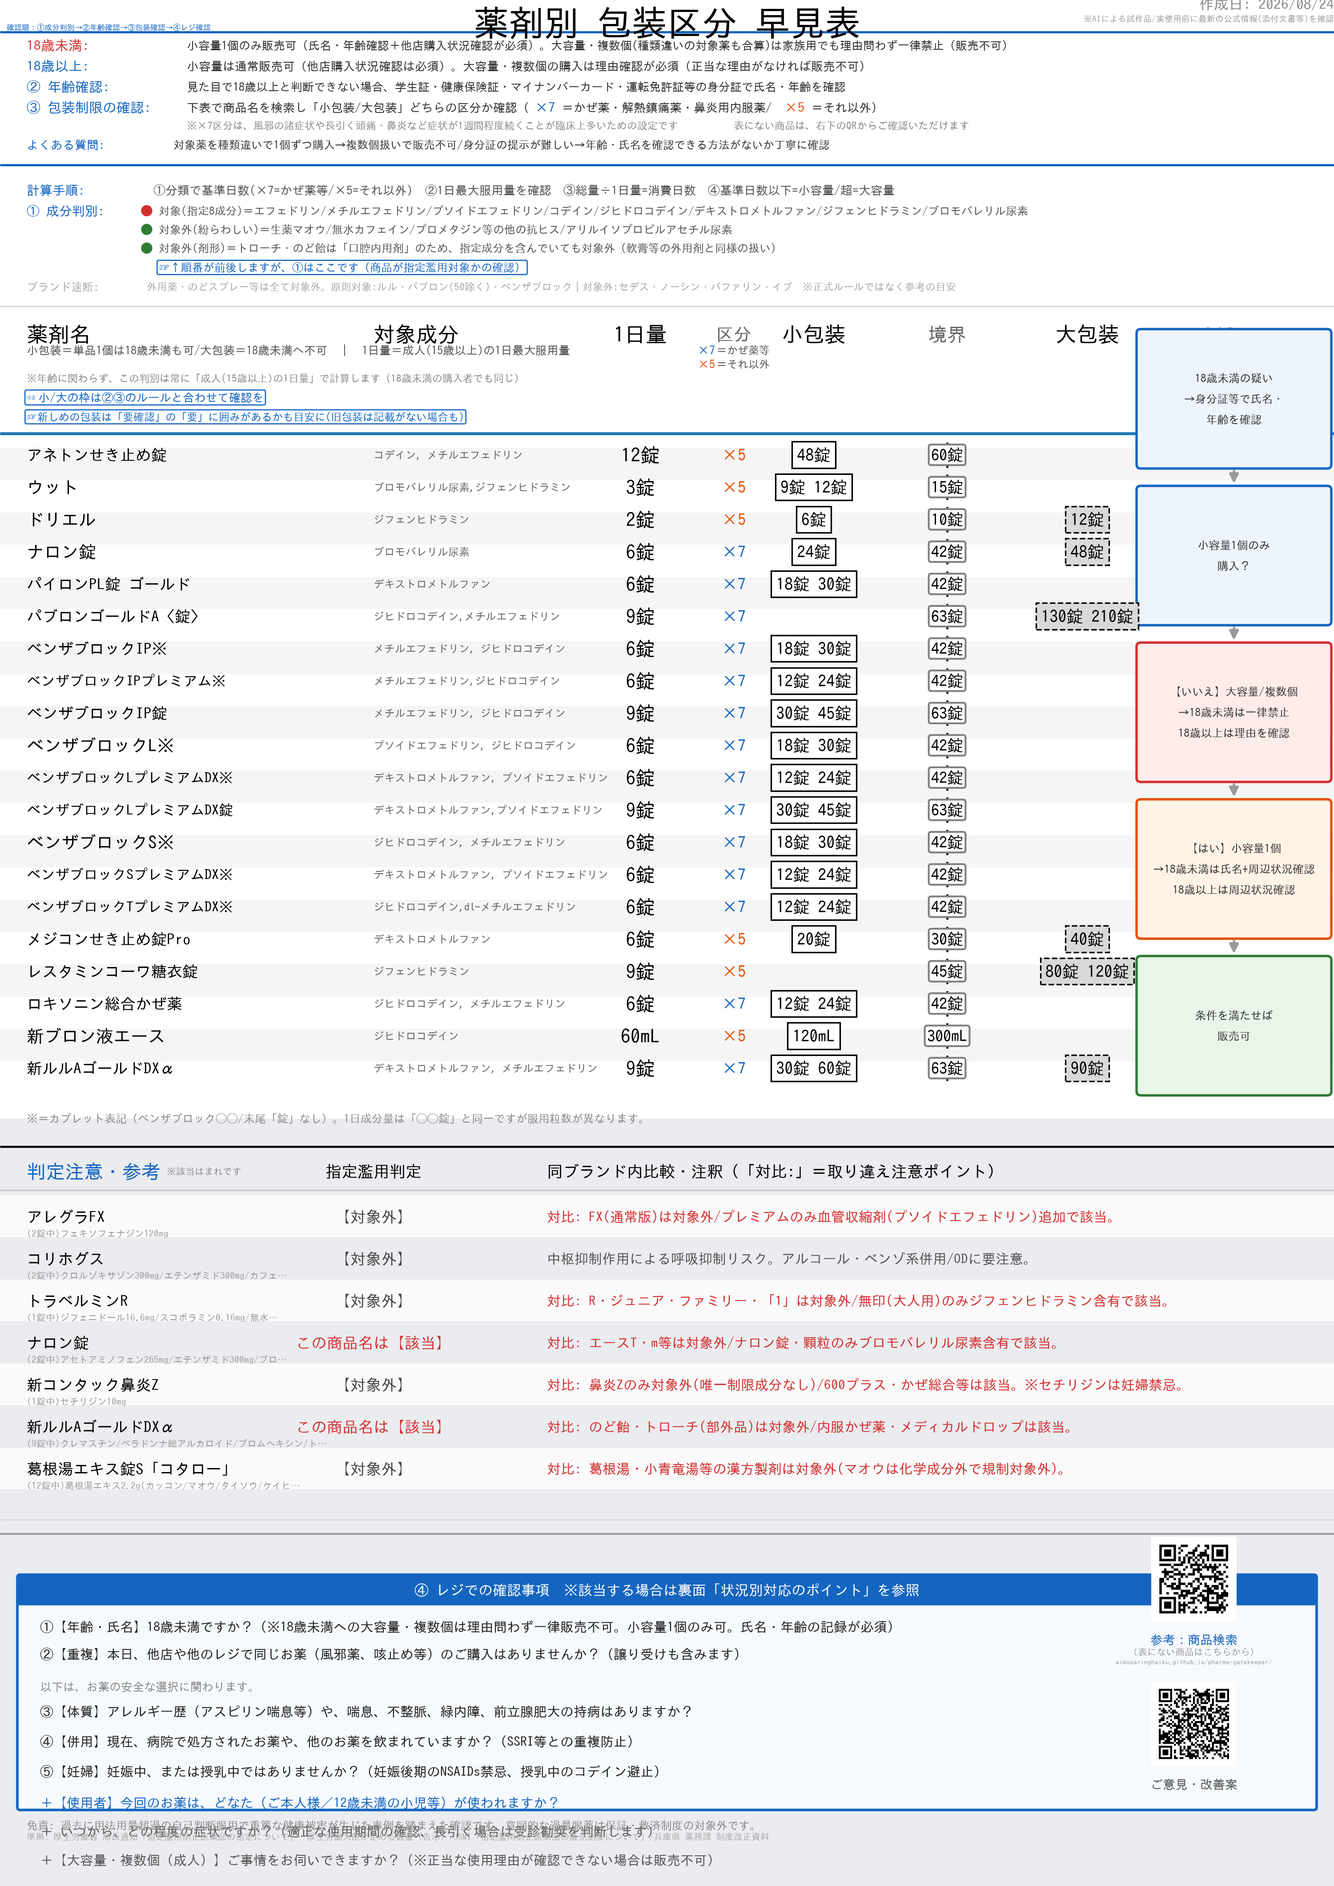
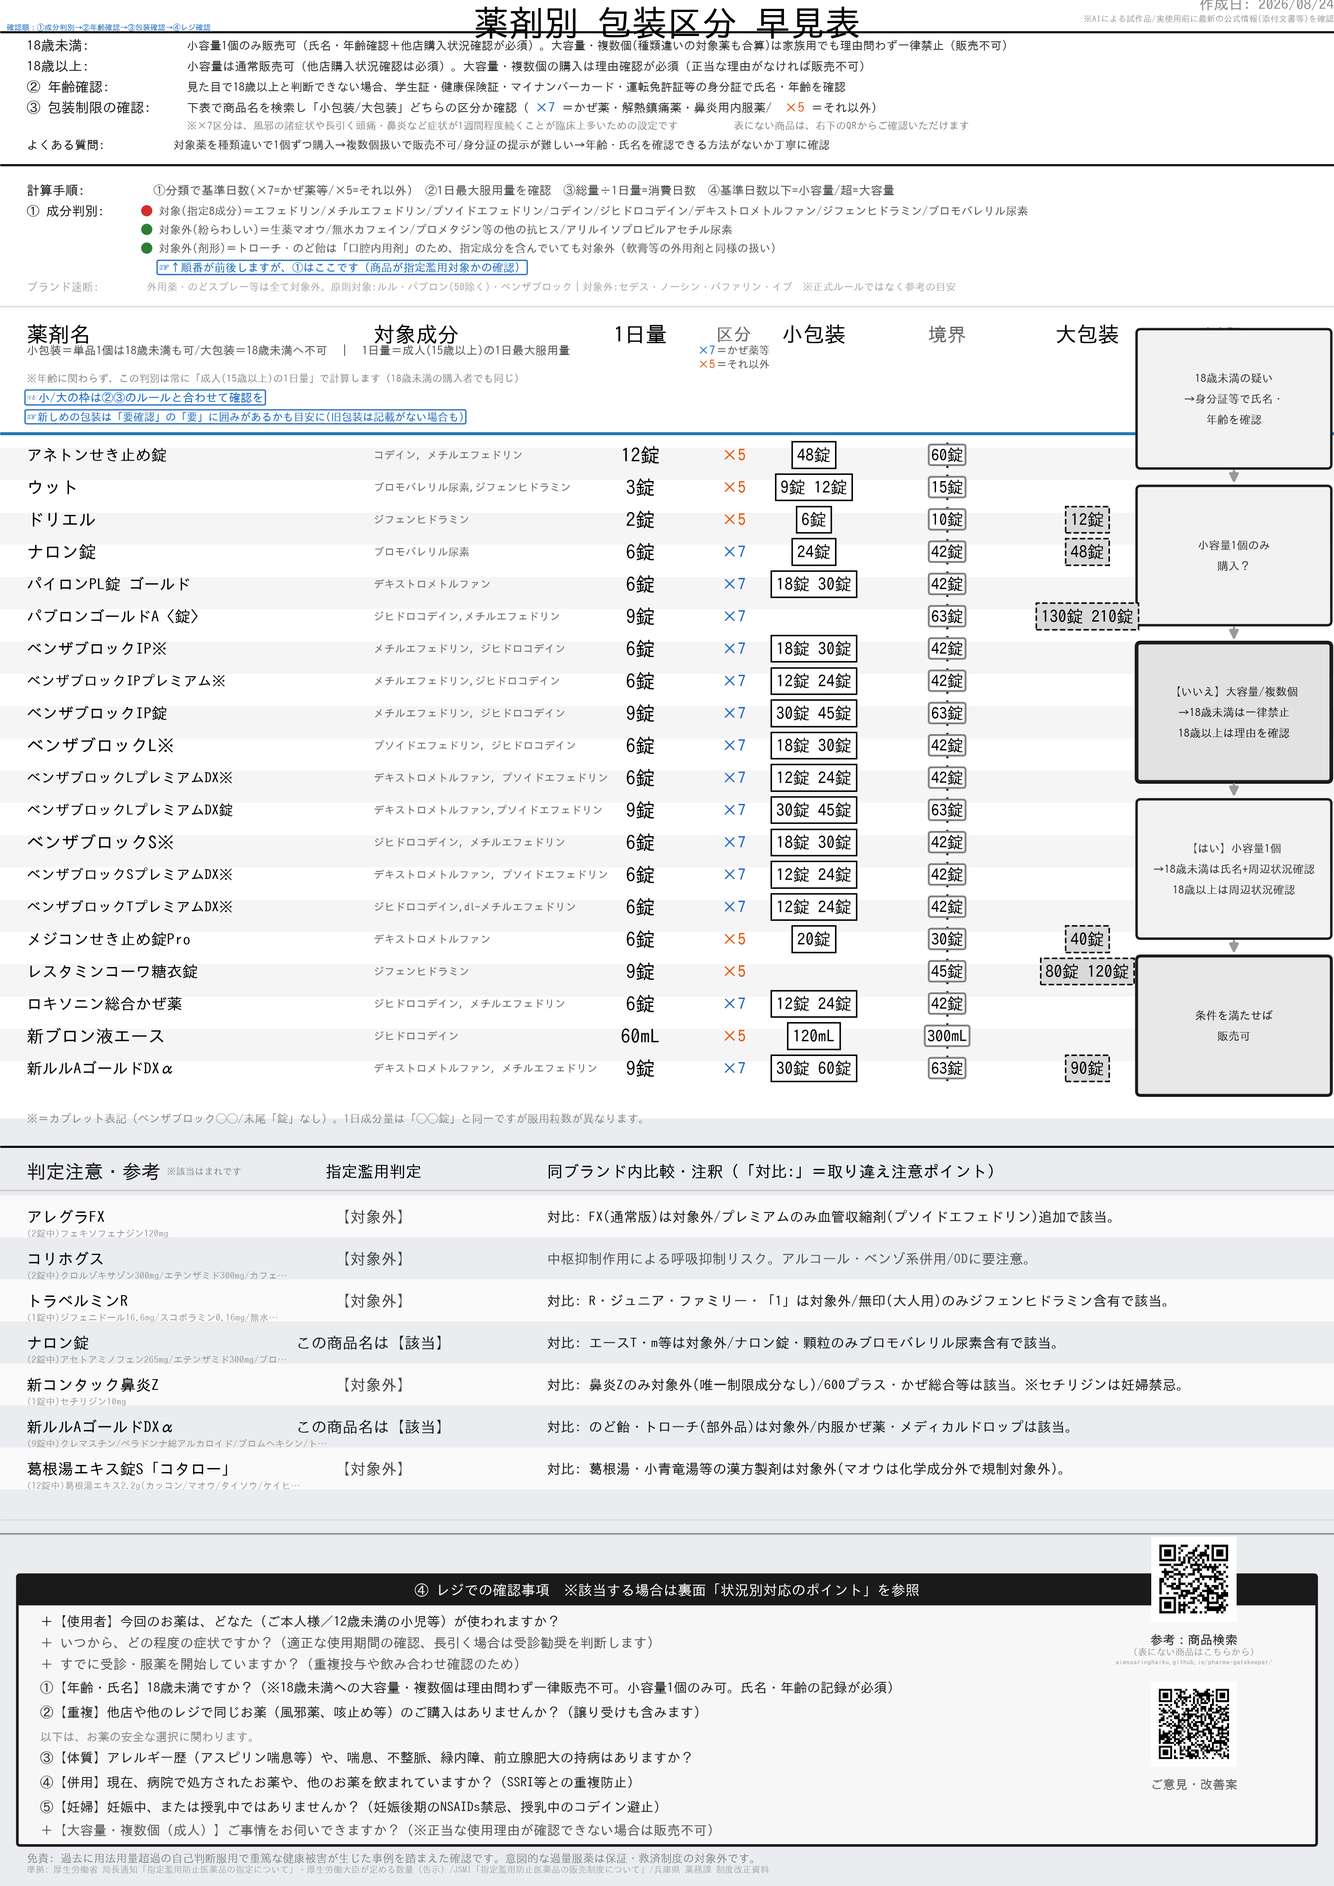
表面: 必須確認事項ボックスの下端はみ出しを修正、全体を白黒基調に配色変更
はみ出し修正:
- 必須確認事項ボックスの高さが固定の下端座標(y=5.9)を前提にしていたため、
  前段の追加でボックス位置が下がった分、後半の項目がボックス外にはみ出て
  下部の免責事項と重なっていた。ボックス高さを内容量ベースの固定値に変更

必須確認事項の並び替え・追加:
- 「どなたが使うか」「いつから・どの程度の症状か」を①より前に移動
- 新規質問「すでに受診・服薬を開始していますか」を追加
- ②【重複】から「本日、」を削除(本日か否かは重要度が低いため)

配色:
- 解釈層(☞注釈)、×7/×5、成分判別の対象/対象外マーカーの3種類のみ
  色(青・橙・赤/緑)を残し、それ以外の見出し・罫線・レジ確認フロー・
  判定注意参考表などは黒/グレーに統一
- レジ確認フローの「大容量/複数個→18歳未満は一律禁止」ボックスは、
  色の代わりに太い枠線+グレー塗り+太字で警告を表現(白黒印刷対応)

Claude-Session: https://claude.ai/code/session_01HtDFe8WnY993KR3Dojx73s

diff --git a/vpc_v12_front.py b/vpc_v12_front.py
@@ -26,6 +26,7 @@ BLUE = "#1565c0"
 GREEN = "#2e7d32"
 ORANGE = "#e65100"
 DARKRED = "#8e0000"
+INK = "#1a1a1a"  # 白黒印刷を基本とし、×7/×5・成分判別マーカー・解釈層(☞)以外の見出し等はこの色に統一
 
 
 def extract_amount_unit(package_str):
@@ -139,7 +140,7 @@ for product, group in reference_df.groupby("product", sort=True):
     kubuns = [str(x).strip() for x in group["kubun"] if str(x).strip()]
     kubun_val = kubuns[0] if kubuns else ""
     if kubun_val == "＊〇":
-        status_text, status_color = "この商品名は【該当】", "#d32f2f"
+        status_text, status_color = "この商品名は【該当】", INK
     elif kubun_val in ["＊対象外", "△"]:
         status_text, status_color = "【対象外】", "#444444"
     else:
@@ -191,24 +192,24 @@ ax.text(0.5, current_y - 0.35, "確認順：①成分判別→②年齢確認→
 
 # --- 使い方・販売可否（①を年齢規制＝この表の根幹に。ルール未経験者でもこの1枚で可否判断できるよう最上部に配置） ---
 current_y -= 1.55
-ax.hlines(current_y + 0.85, 0, LOGICAL_W, colors=BLUE, linewidth=1.2)
+ax.hlines(current_y + 0.85, 0, LOGICAL_W, colors=INK, linewidth=1.2)
 current_y -= 0.15
-ax.text(COL_NAME_X, current_y, "18歳未満:", fontsize=7.4, fontweight="bold", ha="left", va="center", color=RED)
+ax.text(COL_NAME_X, current_y, "18歳未満:", fontsize=7.4, fontweight="bold", ha="left", va="center", color=INK)
 ax.text(COL_NAME_X + 12.0, current_y,
         "小容量1個のみ販売可（氏名・年齢確認＋他店購入状況確認が必須）。大容量・複数個(種類違いの対象薬も合算)は家族用でも理由問わず一律禁止（販売不可）",
         fontsize=6.3, ha="left", va="center", color="#333333", fontweight="bold")
 current_y -= 1.55
-ax.text(COL_NAME_X, current_y, "18歳以上:", fontsize=7.4, fontweight="bold", ha="left", va="center", color=BLUE)
+ax.text(COL_NAME_X, current_y, "18歳以上:", fontsize=7.4, fontweight="bold", ha="left", va="center", color=INK)
 ax.text(COL_NAME_X + 12.0, current_y,
         "小容量は通常販売可（他店購入状況確認は必須）。大容量・複数個の購入は理由確認が必須（正当な理由がなければ販売不可）",
         fontsize=6.6, ha="left", va="center", color="#333333")
 current_y -= 1.55
-ax.text(COL_NAME_X, current_y, "② 年齢確認:", fontsize=7.4, fontweight="bold", ha="left", va="center", color=BLUE)
+ax.text(COL_NAME_X, current_y, "② 年齢確認:", fontsize=7.4, fontweight="bold", ha="left", va="center", color=INK)
 ax.text(COL_NAME_X + 12.0, current_y,
         "見た目で18歳以上と判断できない場合、学生証・健康保険証・マイナンバーカード・運転免許証等の身分証で氏名・年齢を確認",
         fontsize=6.3, ha="left", va="center", color="#333333")
 current_y -= 1.55
-ax.text(COL_NAME_X, current_y, "③ 包装制限の確認:", fontsize=7.4, fontweight="bold", ha="left", va="center", color=BLUE)
+ax.text(COL_NAME_X, current_y, "③ 包装制限の確認:", fontsize=7.4, fontweight="bold", ha="left", va="center", color=INK)
 ax.text(COL_NAME_X + 12.0, current_y, "下表で商品名を検索し「小包装/大包装」どちらの区分か確認（", fontsize=6.6, ha="left", va="center", color="#333333")
 ax.text(COL_NAME_X + 38.1, current_y, "×7", fontsize=7.2, fontweight="bold", ha="left", va="center", color=BLUE)
 ax.text(COL_NAME_X + 40.1, current_y, "＝かぜ薬・解熱鎮痛薬・鼻炎用内服薬/", fontsize=6.6, ha="left", va="center", color="#333333")
@@ -220,22 +221,22 @@ ax.text(COL_NAME_X + 12.0, current_y,
         fontsize=5.6, ha="left", va="center", color=LGRAY)
 ax.text(COL_NAME_X + 53.0, current_y, "表にない商品は、右下のQRからご確認いただけます", fontsize=5.6, ha="left", va="center", color="#888888")
 current_y -= 1.45
-ax.text(COL_NAME_X, current_y, "よくある質問:", fontsize=6.6, fontweight="bold", ha="left", va="center", color=BLUE)
+ax.text(COL_NAME_X, current_y, "よくある質問:", fontsize=6.6, fontweight="bold", ha="left", va="center", color=INK)
 ax.text(COL_NAME_X + 11.0, current_y,
         "対象薬を種類違いで1個ずつ購入→複数個扱いで販売不可/身分証の提示が難しい→年齢・氏名を確認できる方法がないか丁寧に確認",
         fontsize=6.0, ha="left", va="center", color="#333333")
 current_y -= 1.5
-ax.hlines(current_y, 0, LOGICAL_W, colors=BLUE, linewidth=1.2)
+ax.hlines(current_y, 0, LOGICAL_W, colors=INK, linewidth=1.2)
 current_y -= 0.35
 
 # --- 計算手順・成分判別・ブランド速断（実務でよく使う判別系を、本体テーブルの直前に集約） ---
 current_y -= 1.55
-ax.text(COL_NAME_X, current_y, "計算手順:", fontsize=7.07, fontweight="bold", ha="left", va="center", color=BLUE)
+ax.text(COL_NAME_X, current_y, "計算手順:", fontsize=7.07, fontweight="bold", ha="left", va="center", color=INK)
 ax.text(COL_NAME_X + 9.5, current_y,
         "①分類で基準日数(×7=かぜ薬等/×5=それ以外)　②1日最大服用量を確認　③総量÷1日量=消費日数　④基準日数以下=小容量/超=大容量",
         fontsize=6.4, ha="left", va="center", color=GRAY)
 current_y -= 1.55
-ax.text(COL_NAME_X, current_y, "① 成分判別:", fontsize=7.07, fontweight="bold", ha="left", va="center", color=BLUE)
+ax.text(COL_NAME_X, current_y, "① 成分判別:", fontsize=7.07, fontweight="bold", ha="left", va="center", color=INK)
 marker(ax, COL_NAME_X + 9.0, current_y, RED, "circle", 0.42)
 ax.text(COL_NAME_X + 9.9, current_y,
         "対象(指定8成分)＝エフェドリン/メチルエフェドリン/プソイドエフェドリン/コデイン/ジヒドロコデイン/デキストロメトルファン/ジフェンヒドラミン/ブロモバレリル尿素",
@@ -306,11 +307,11 @@ row_height = 2.42
 # --- レジ確認フロー（本体テーブル右の空きスペースに縦長ミニフローチャート） ---
 FLOW_HALF_W = 7.0
 flow_nodes = [
-    (["18歳未満の疑い", "→身分証等で氏名・", "年齢を確認"], BLUE, "#eef4fc"),
-    (["小容量1個のみ", "購入？"], BLUE, "#eef4fc"),
-    (["【いいえ】大容量/複数個", "→18歳未満は一律禁止", "18歳以上は理由を確認"], RED, "#fdecea"),
-    (["【はい】小容量1個", "→18歳未満は氏名+周辺状況確認", "18歳以上は周辺状況確認"], ORANGE, "#fff3e6"),
-    (["条件を満たせば", "販売可"], GREEN, "#eaf5ea"),
+    (["18歳未満の疑い", "→身分証等で氏名・", "年齢を確認"], INK, "#f2f2f2", 1.3),
+    (["小容量1個のみ", "購入？"], INK, "#f2f2f2", 1.3),
+    (["【いいえ】大容量/複数個", "→18歳未満は一律禁止", "18歳以上は理由を確認"], INK, "#e2e2e2", 2.0),
+    (["【はい】小容量1個", "→18歳未満は氏名+周辺状況確認", "18歳以上は周辺状況確認"], INK, "#f2f2f2", 1.3),
+    (["条件を満たせば", "販売可"], INK, "#e8e8e8", 1.6),
 ]
 flow_top = 111.5
 flow_bottom = 64.5
@@ -318,17 +319,19 @@ n = len(flow_nodes)
 flow_gap = (flow_top - flow_bottom) / (n - 1)
 flow_box_h = flow_gap - 1.9
 prev_y = None
-for idx, (lines, edge_color, fill_color) in enumerate(flow_nodes):
+for idx, (lines, edge_color, fill_color, edge_w) in enumerate(flow_nodes):
     yc = flow_top - idx * flow_gap
     box = patches.FancyBboxPatch((FLOW_X - FLOW_HALF_W, yc - flow_box_h / 2), FLOW_HALF_W * 2, flow_box_h,
-                                  boxstyle="round,pad=0.3", linewidth=1.3, edgecolor=edge_color,
+                                  boxstyle="round,pad=0.3", linewidth=edge_w, edgecolor=edge_color,
                                   facecolor=fill_color, zorder=3)
     ax.add_patch(box)
     n_lines = len(lines)
     line_h = 1.55
     start_y = yc + (n_lines - 1) * line_h / 2
+    is_warning = edge_w > 1.5
     for li, line in enumerate(lines):
-        ax.text(FLOW_X, start_y - li * line_h, line, fontsize=5.9, ha="center", va="center", color="#333333")
+        ax.text(FLOW_X, start_y - li * line_h, line, fontsize=5.9, fontweight="bold" if is_warning else "normal",
+                ha="center", va="center", color="#222222" if is_warning else "#333333")
     if prev_y is not None:
         ax.annotate("", xy=(FLOW_X, yc + flow_box_h / 2 + 0.2), xytext=(FLOW_X, prev_y - flow_box_h / 2 - 0.2),
                     arrowprops=dict(arrowstyle="-|>", color="#999999", lw=1.3))
@@ -388,7 +391,7 @@ if ref_rows > 0:
     ax.hlines(current_y, 0, LOGICAL_W, colors="black", linewidth=1.1)
     current_y -= 1.84
 
-    ax.text(COL_NAME_X, current_y, "判定注意・参考", fontsize=10.37, fontweight="bold", ha="left", va="center", color=BLUE)
+    ax.text(COL_NAME_X, current_y, "判定注意・参考", fontsize=10.37, fontweight="bold", ha="left", va="center", color=INK)
     ax.text(COL_NAME_X + 10.5, current_y, "※該当はまれです", fontsize=5.0, fontstyle="italic",
             ha="left", va="center", color=LGRAY)
     ax.text(28.0, current_y, "指定濫用判定", fontsize=8.54, fontweight="bold", ha="center", va="center")
@@ -404,8 +407,9 @@ if ref_rows > 0:
             ax.add_patch(patches.Rectangle((0, current_y - 1.55), LOGICAL_W, ref_row_h, facecolor="#fafafa", edgecolor="none"))
         ax.text(COL_NAME_X, current_y, row["product"], fontsize=8.42, fontweight="bold", ha="left", va="center")
         ax.text(28.0, current_y, row["status_text"], fontsize=8.42, fontweight="bold", ha="center", va="center", color=row["status_color"])
-        note_color = RED if row["note"].startswith("対比") else GRAY
-        ax.text(41.0, current_y, row["note"], fontsize=7.34, ha="left", va="center", color=note_color)
+        is_taichi = row["note"].startswith("対比")
+        ax.text(41.0, current_y, row["note"], fontsize=7.34, fontweight="bold" if is_taichi else "normal",
+                ha="left", va="center", color=INK if is_taichi else GRAY)
         if row["ingr_detail"]:
             detail_text = row["ingr_detail"]
             if len(detail_text) > 34:
@@ -436,7 +440,7 @@ except Exception:
     ax.add_patch(patches.Rectangle((QR_X - qr_size/2, qr1_center_y - qr_size/2), qr_size, qr_size,
                                    fill=False, edgecolor="#cccccc", zorder=3))
 qr1_y = qr1_center_y - qr_size/2 - 0.85
-ax.text(QR_X, qr1_y, "参考：商品検索", fontsize=6.8, ha="center", va="top", color=BLUE, fontweight="bold")
+ax.text(QR_X, qr1_y, "参考：商品検索", fontsize=6.8, ha="center", va="top", color=INK, fontweight="bold")
 qr1_y -= 1.05
 ax.text(QR_X, qr1_y, "(表にない商品はこちらから)", fontsize=5.0, ha="center", va="top", color="#999999")
 qr1_y -= 0.85
@@ -472,44 +476,49 @@ y -= 1.84
 # G. 必須質問（厚労省チェック項目に準拠。該当時は裏面の「状況別対応のポイント」を参照）
 y -= 0.5
 box_top = y + 0.7
-box_h = box_top - 5.9
+# box_hは内容量から決まる固定値（内容が伸びてbox_topが下がっても、
+# 下端が5.9固定だと後半の項目がはみ出すため、内容基準に変更）
+box_h = 19.9
 ax.add_patch(patches.FancyBboxPatch((COL_NAME_X - 0.5, box_top - box_h), LOGICAL_W - 2 * (COL_NAME_X - 0.5), box_h,
-                                     boxstyle="round,pad=0.2", linewidth=1.4, edgecolor=BLUE, facecolor="#f7fafd", zorder=2))
+                                     boxstyle="round,pad=0.2", linewidth=1.4, edgecolor=INK, facecolor="#f7f7f7", zorder=2))
 ax.add_patch(patches.FancyBboxPatch((COL_NAME_X - 0.5, box_top - 1.9), LOGICAL_W - 2 * (COL_NAME_X - 0.5), 1.9,
-                                     boxstyle="round,pad=0.2", linewidth=0, facecolor=BLUE, zorder=2))
+                                     boxstyle="round,pad=0.2", linewidth=0, facecolor=INK, zorder=2))
 ax.text(LOGICAL_W / 2, box_top - 0.95, "④ レジでの確認事項　※該当する場合は裏面「状況別対応のポイント」を参照",
         fontsize=7.6, fontweight="bold", ha="center", va="center", color="white", zorder=3)
 
-qy = box_top - 3.7
-ax.text(COL_NAME_X + 1.0, qy, "①【年齢・氏名】18歳未満ですか？（※18歳未満への大容量・複数個は理由問わず一律販売不可。小容量1個のみ可。氏名・年齢の記録が必須）",
-        fontsize=7.3, fontweight="bold", ha="left", va="center", color="#222222", zorder=3)
-qy -= 2.05
-ax.text(COL_NAME_X + 1.0, qy, "②【重複】本日、他店や他のレジで同じお薬（風邪薬、咳止め等）のご購入はありませんか？（譲り受けも含みます）",
-        fontsize=7.3, fontweight="bold", ha="left", va="center", color="#222222", zorder=3)
-qy -= 2.45
-ax.text(COL_NAME_X + 1.0, qy, "以下は、お薬の安全な選択に関わります。", fontsize=6.2, fontstyle="italic",
-        ha="left", va="center", color=LGRAY, zorder=3)
-qy -= 1.85
-ax.text(COL_NAME_X + 1.0, qy, "③【体質】アレルギー歴（アスピリン喘息等）や、喘息、不整脈、緑内障、前立腺肥大の持病はありますか？",
-        fontsize=7.3, fontweight="bold", ha="left", va="center", color="#222222", zorder=3)
-qy -= 2.25
-ax.text(COL_NAME_X + 1.0, qy, "④【併用】現在、病院で処方されたお薬や、他のお薬を飲まれていますか？（SSRI等との重複防止）",
-        fontsize=7.3, fontweight="bold", ha="left", va="center", color="#222222", zorder=3)
-qy -= 2.25
-ax.text(COL_NAME_X + 1.0, qy, "⑤【妊婦】妊娠中、または授乳中ではありませんか？（妊娠後期のNSAIDs禁忌、授乳中のコデイン避止）",
-        fontsize=7.3, fontweight="bold", ha="left", va="center", color="#222222", zorder=3)
-qy -= 2.35
+qy = box_top - 3.3
 ax.text(COL_NAME_X + 1.0, qy, "＋【使用者】今回のお薬は、どなた（ご本人様／12歳未満の小児等）が使われますか？",
-        fontsize=7.1, fontweight="bold", ha="left", va="center", color=BLUE, zorder=3)
-qy -= 2.15
+        fontsize=7.1, fontweight="bold", ha="left", va="center", color="#222222", zorder=3)
+qy -= 1.6
 ax.text(COL_NAME_X + 1.0, qy, "＋ いつから、どの程度の症状ですか？（適正な使用期間の確認、長引く場合は受診勧奨を判断します）",
         fontsize=7.1, ha="left", va="center", color=GRAY, zorder=3)
-qy -= 2.15
+qy -= 1.6
+ax.text(COL_NAME_X + 1.0, qy, "＋ すでに受診・服薬を開始していますか？（重複投与や飲み合わせ確認のため）",
+        fontsize=7.1, ha="left", va="center", color=GRAY, zorder=3)
+qy -= 1.75
+ax.text(COL_NAME_X + 1.0, qy, "①【年齢・氏名】18歳未満ですか？（※18歳未満への大容量・複数個は理由問わず一律販売不可。小容量1個のみ可。氏名・年齢の記録が必須）",
+        fontsize=7.3, fontweight="bold", ha="left", va="center", color="#222222", zorder=3)
+qy -= 1.85
+ax.text(COL_NAME_X + 1.0, qy, "②【重複】他店や他のレジで同じお薬（風邪薬、咳止め等）のご購入はありませんか？（譲り受けも含みます）",
+        fontsize=7.3, fontweight="bold", ha="left", va="center", color="#222222", zorder=3)
+qy -= 1.85
+ax.text(COL_NAME_X + 1.0, qy, "以下は、お薬の安全な選択に関わります。", fontsize=6.2, fontstyle="italic",
+        ha="left", va="center", color=LGRAY, zorder=3)
+qy -= 1.55
+ax.text(COL_NAME_X + 1.0, qy, "③【体質】アレルギー歴（アスピリン喘息等）や、喘息、不整脈、緑内障、前立腺肥大の持病はありますか？",
+        fontsize=7.3, fontweight="bold", ha="left", va="center", color="#222222", zorder=3)
+qy -= 1.85
+ax.text(COL_NAME_X + 1.0, qy, "④【併用】現在、病院で処方されたお薬や、他のお薬を飲まれていますか？（SSRI等との重複防止）",
+        fontsize=7.3, fontweight="bold", ha="left", va="center", color="#222222", zorder=3)
+qy -= 1.85
+ax.text(COL_NAME_X + 1.0, qy, "⑤【妊婦】妊娠中、または授乳中ではありませんか？（妊娠後期のNSAIDs禁忌、授乳中のコデイン避止）",
+        fontsize=7.3, fontweight="bold", ha="left", va="center", color="#222222", zorder=3)
+qy -= 1.75
 ax.text(COL_NAME_X + 1.0, qy, "＋【大容量・複数個（成人）】ご事情をお伺いできますか？（※正当な使用理由が確認できない場合は販売不可）",
         fontsize=7.1, ha="left", va="center", color=GRAY, zorder=3)
 
-# === 【追加】必須質問ボックスの下辺（5.9）から1.1下がった位置に y を再設定 ===
-y = box_top - box_h - 1.1  # これにより y = 4.8 にリセットされます
+# === 【追加】必須質問ボックスの下辺から0.9下がった位置に y を再設定 ===
+y = box_top - box_h - 0.9
 
 y -= 0.25  # y = 4.55 (免責事項の描画位置)
 ax.text(COL_NAME_X, y, "免責: 過去に用法用量超過の自己判断服用で重篤な健康被害が生じた事例を踏まえた確認です。意図的な過量服薬は保証・救済制度の対象外です。", fontsize=6.1, ha="left", va="center", color=LGRAY)
